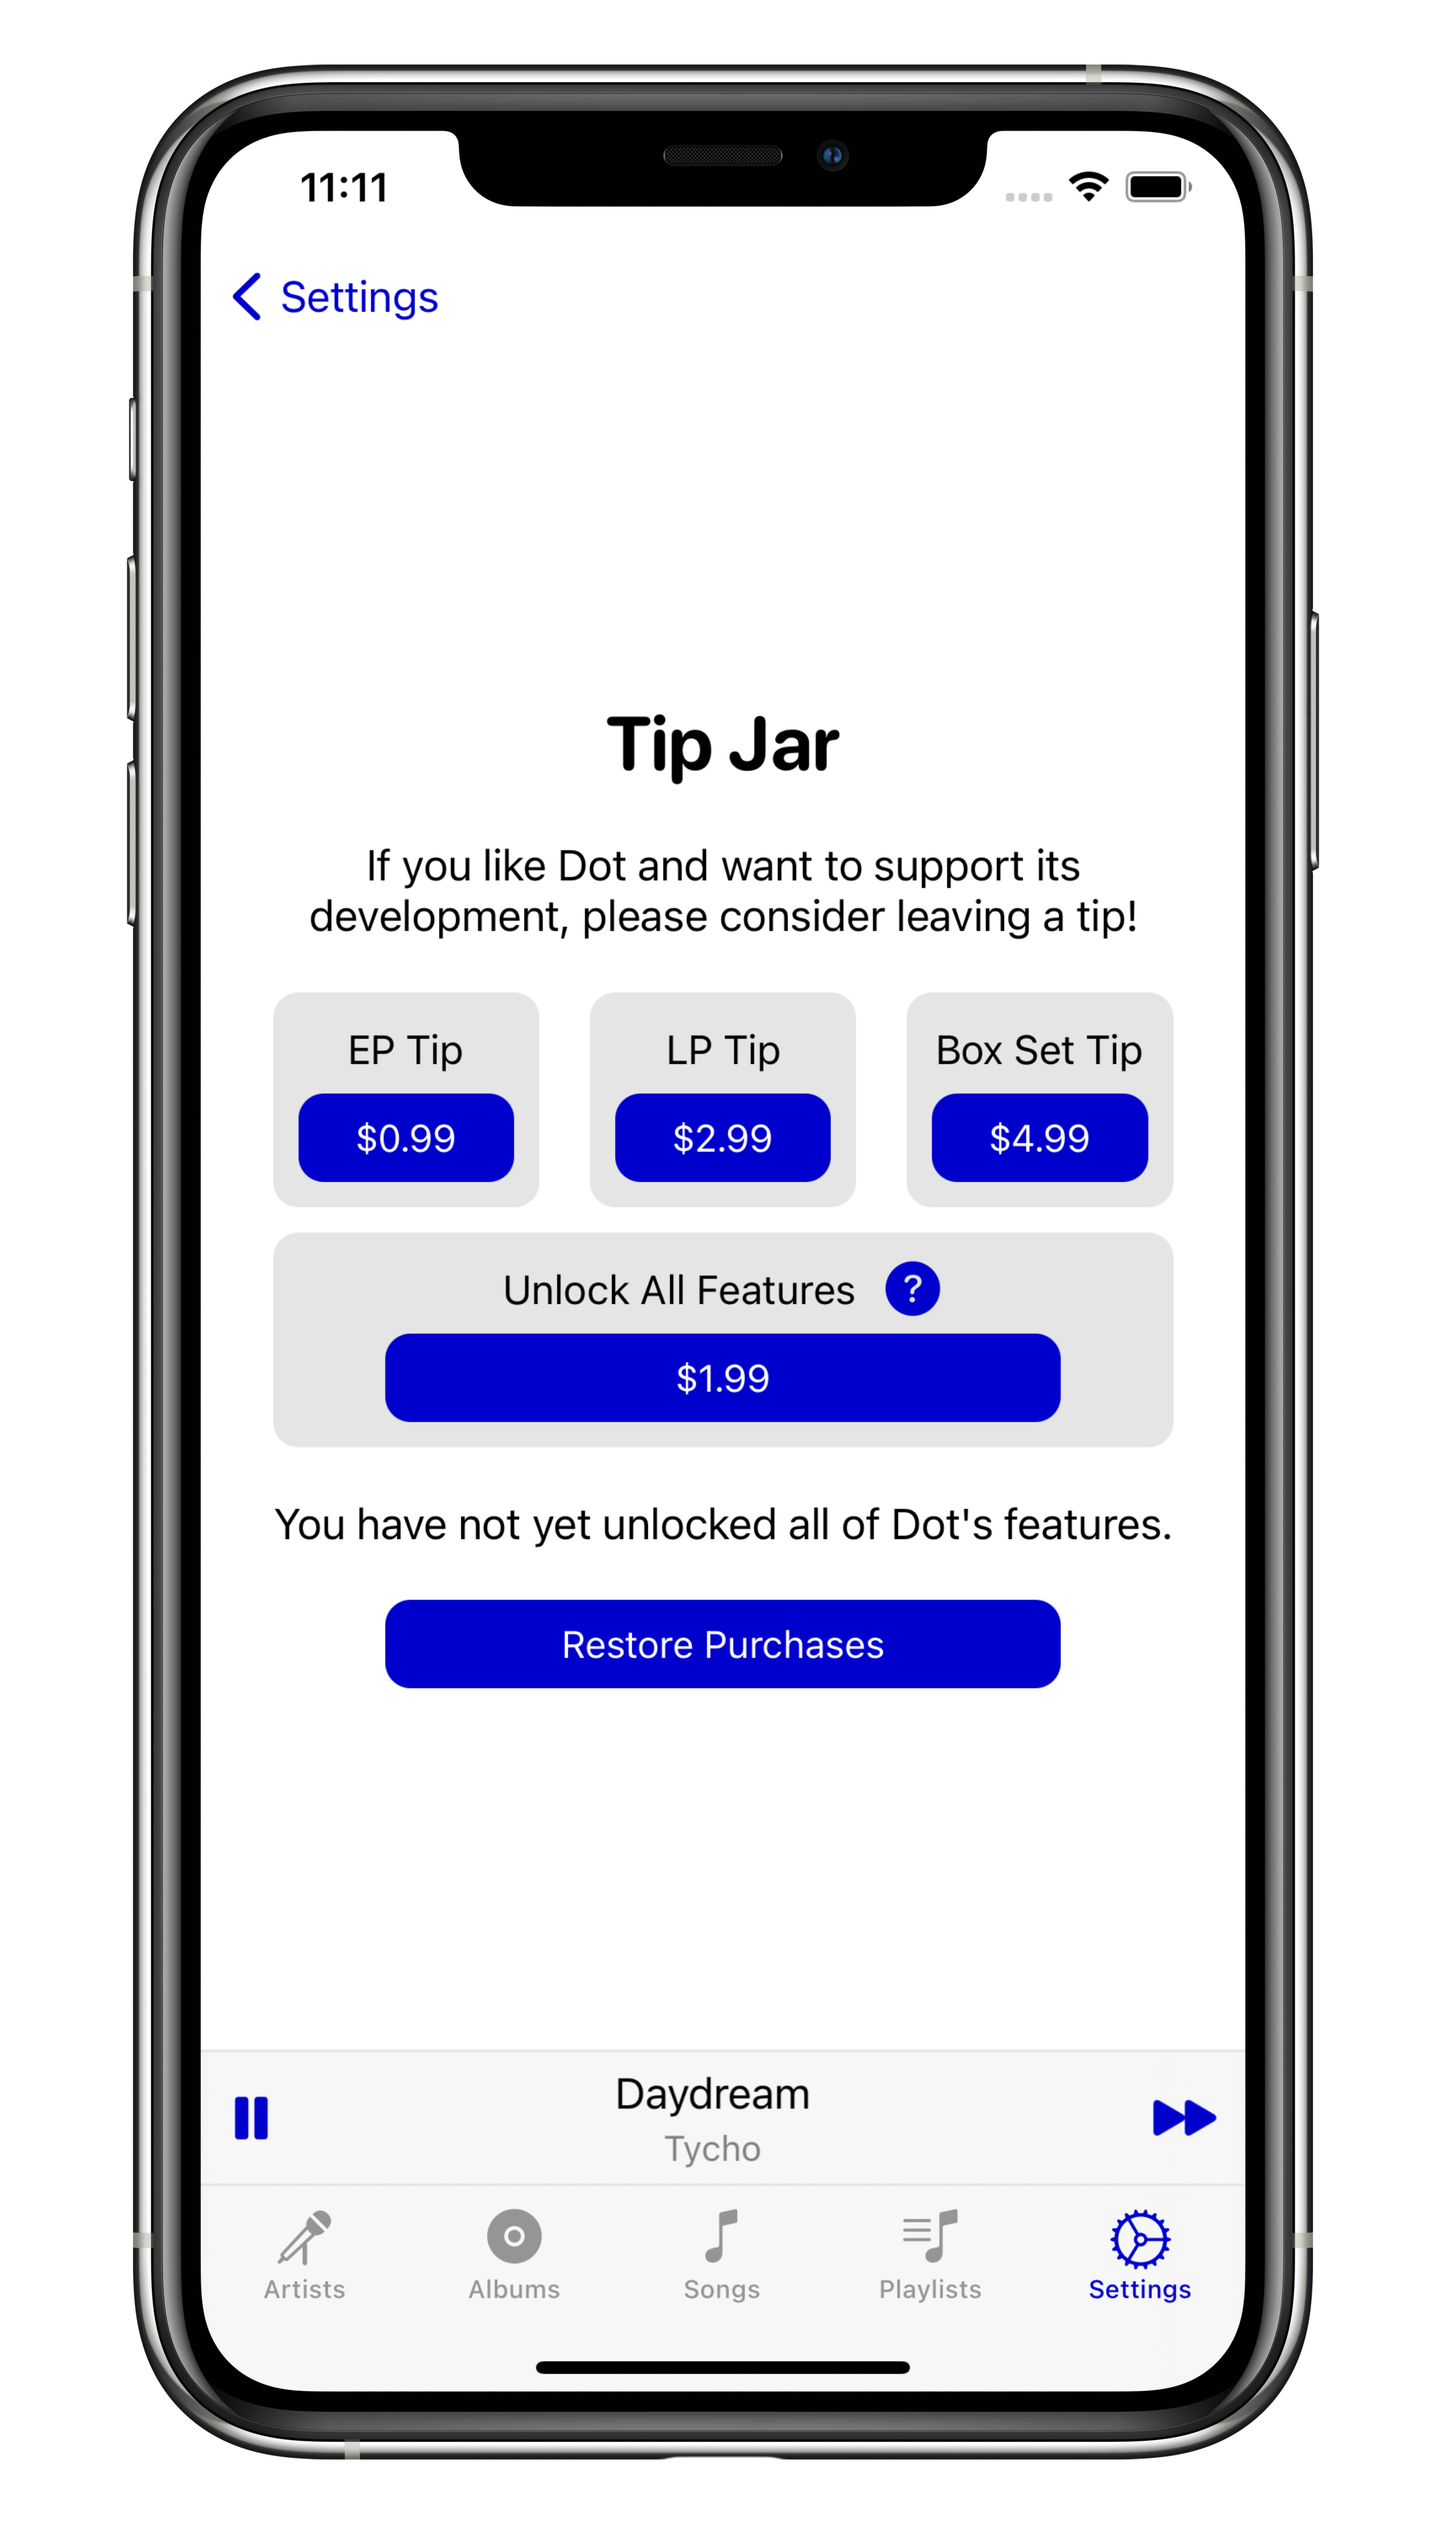
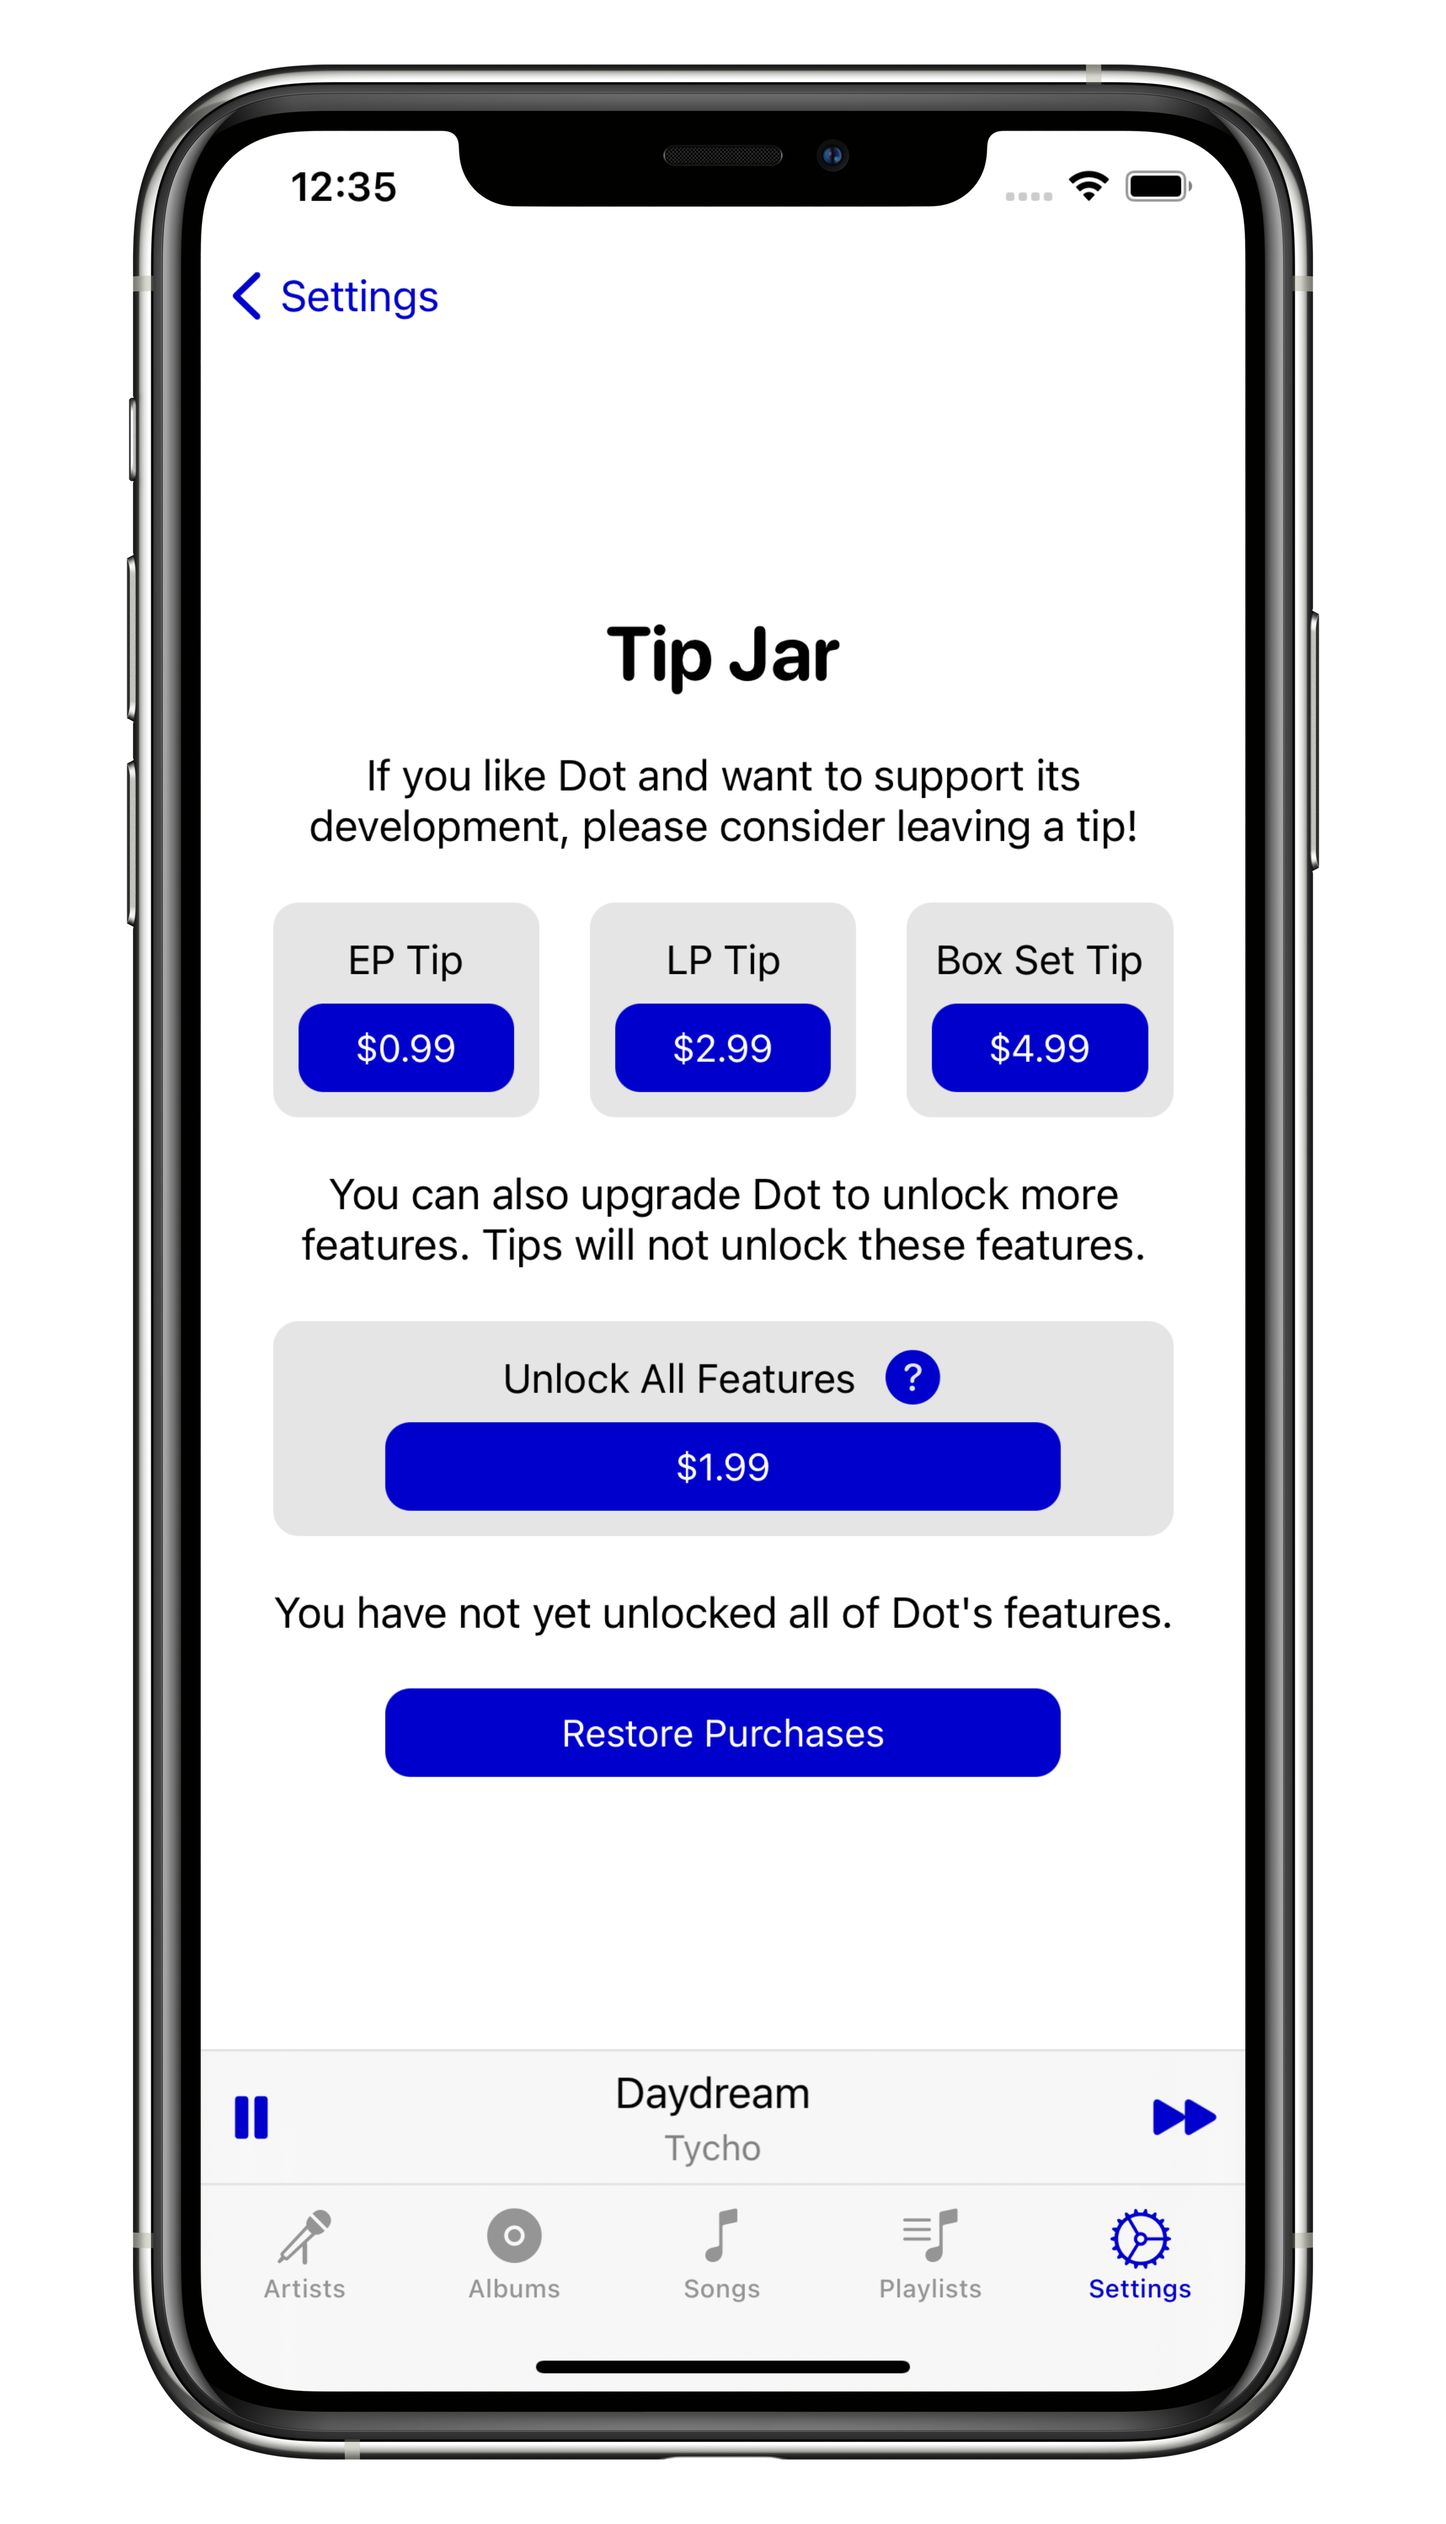
new sc and wording

Changed region(s): [[0.1859, 0.25, 0.8364, 0.7188], [0.1859, 0.0625, 0.2788, 0.0938], [0.7744, 0.875, 0.8054, 0.9062]]

diff --git a/index.html b/index.html
@@ -50,7 +50,7 @@
 						</div>
 						<div class="featureDescriptionRight" textAlign="left">
 							<h1 class="featureTitle">Functional and Beautiful</h1>
-							<p class="featureDescriptionSubtitle">All throughout Dot, you'll find little design details that help get music playing as fast as possible, like swipe controls to add to the queue and constantly-visible play and shuffle controls on albums and playlists.</p>
+							<p class="featureDescriptionSubtitle">All throughout Dot, you'll find little design details that help you get music playing as fast as possible, like swipe controls to add to the queue and constantly-visible play and shuffle controls on albums and playlists.</p>
 						</div>
 					</div>
 				
